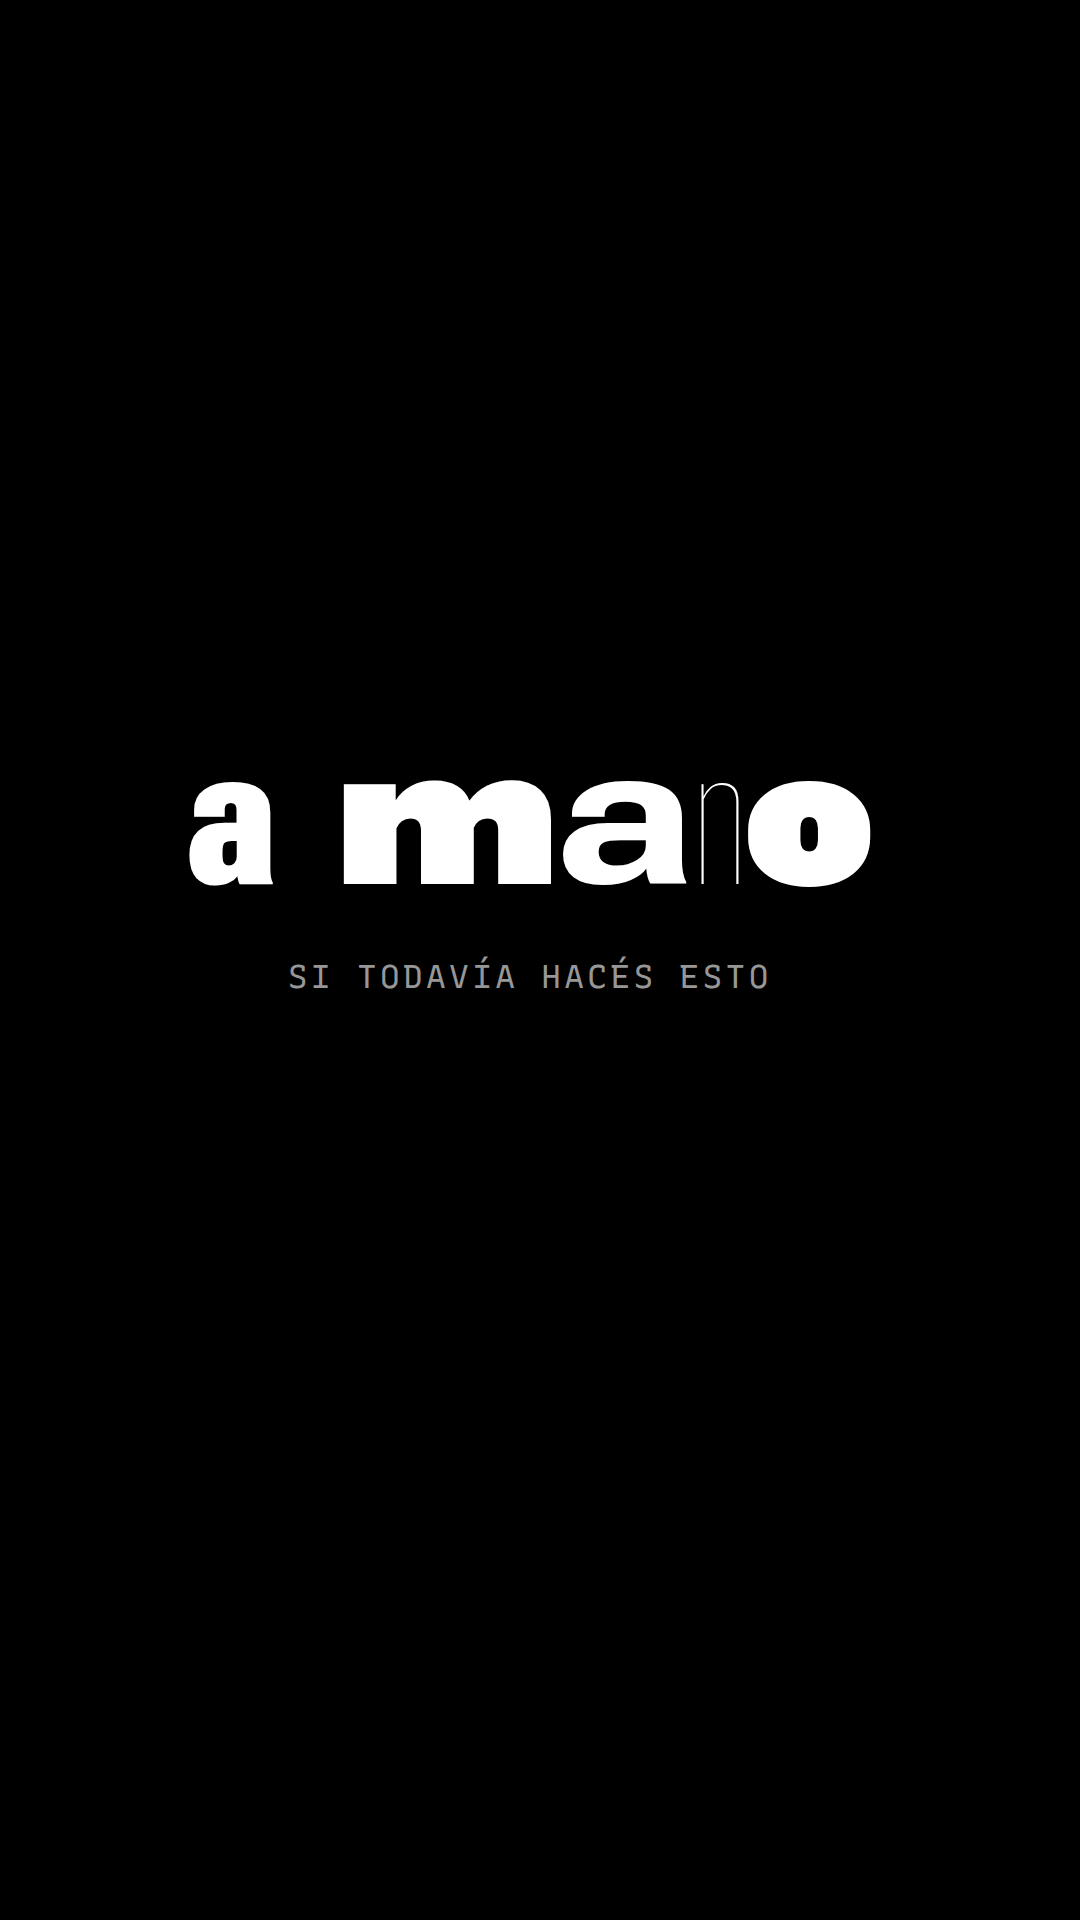
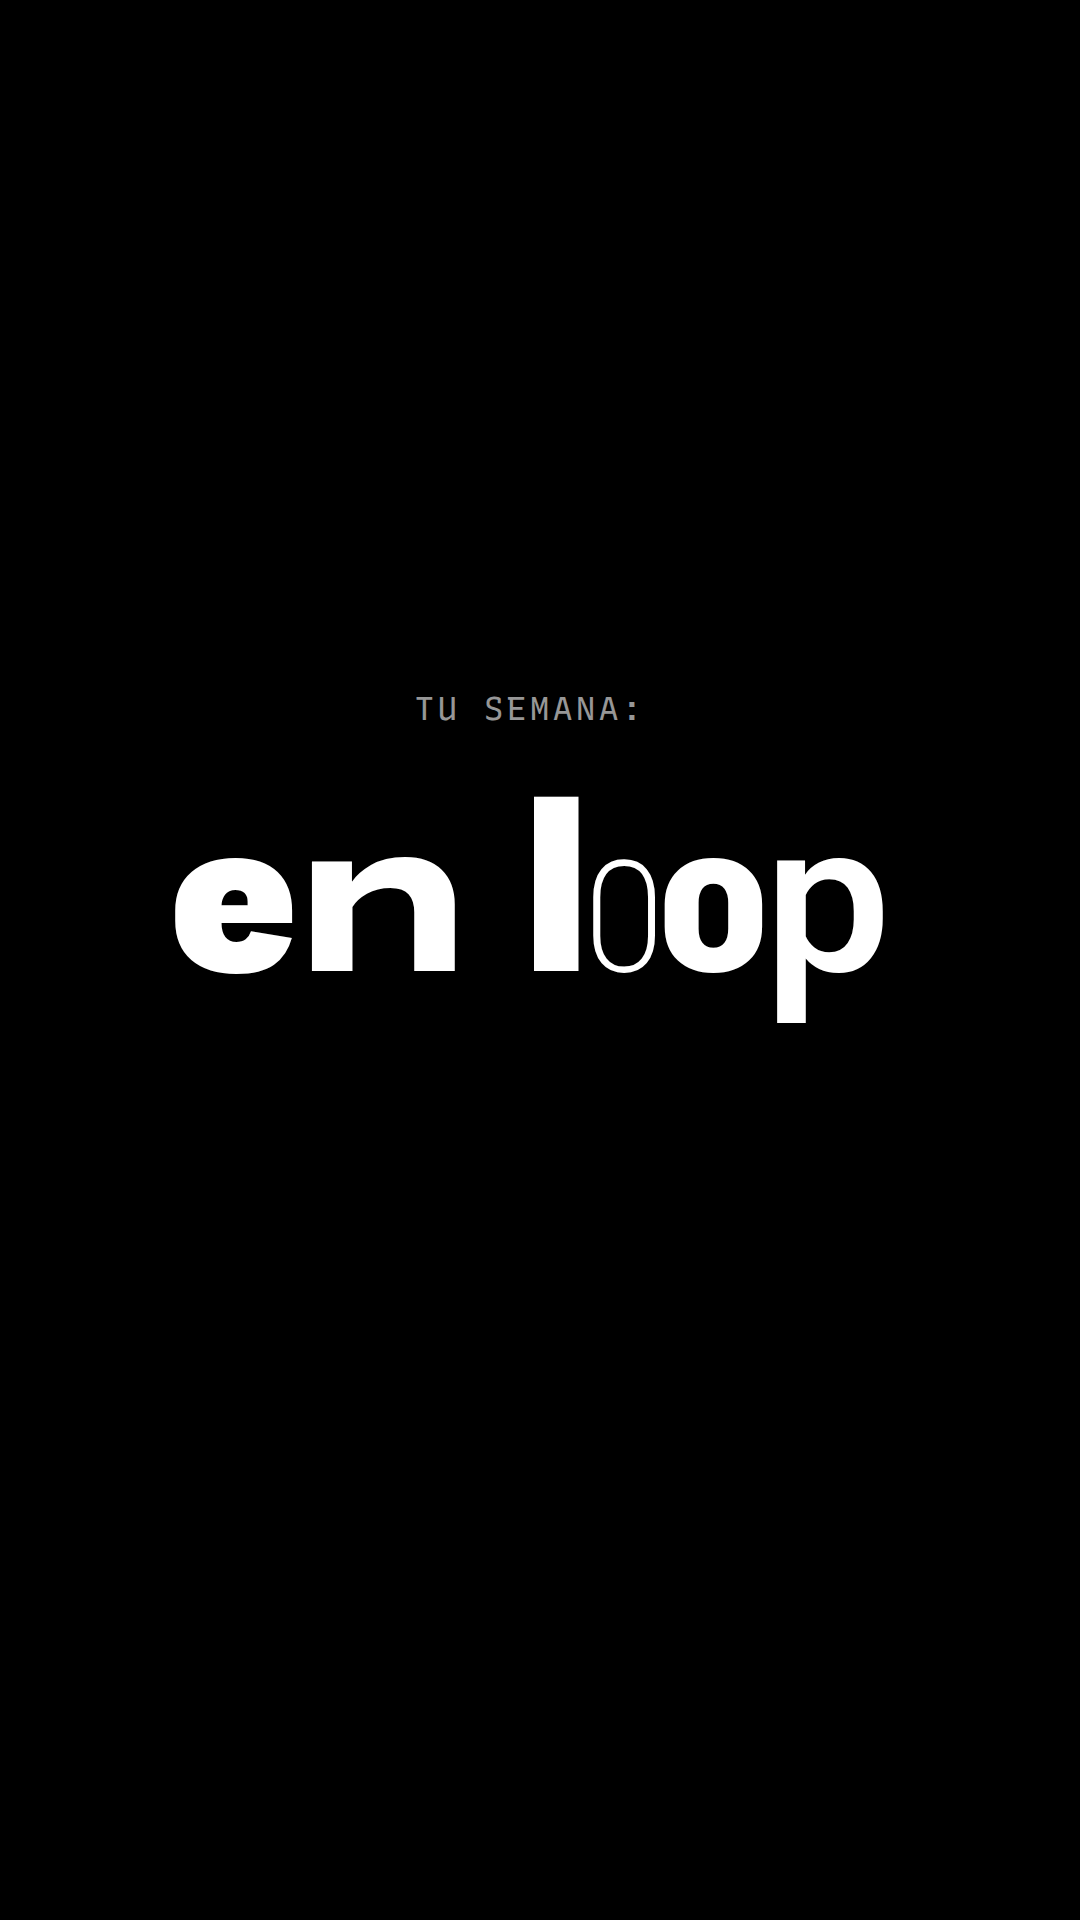
.

Changed region(s): [[0.1528, 0.4062, 0.825, 0.5312], [0.4583, 0.3438, 0.5806, 0.375], [0.3972, 0.3438, 0.4278, 0.375]]

diff --git a/instagram/reels/reels.js b/instagram/reels/reels.js
@@ -1,5 +1,5 @@
-// Reels para @l20n.archive y TikTok (en exploración). 1080×1920, 30 fps, sin audio:
-// el audio se elige en la app (los sonidos en tendencia ayudan al alcance).
+// Reels para @l20n.archive y TikTok (en exploración). 1080×1920, 30 fps.
+// music: { track, bar } → pista de musica/ (ver music.py) y compás en el que arranca.
 // El copy es BORRADOR: reescribilo a tu manera y volvé a renderizar.
 //
 // Escenas (dur en segundos):
@@ -12,6 +12,7 @@
 
 window.REELS = {
   '01-seguros-registro': {
+    music: { track: 'noche', bar: 4 },
     caption: 'Un productor de seguros no debería acordarse de cada vencimiento. Avisos y reportes que salen solos, todos los días. Escribime "avisos" por DM.',
     scenes: [
       { type: 'word', t: '08:00', label: 'mientras dormías', dur: 2.4 },
@@ -32,9 +33,10 @@ window.REELS = {
   },
 
   '02-a-mano': {
-    caption: 'Si alguna de estas te come la semana, se puede automatizar. Escribime por DM y vemos cuál primero.',
+    music: { track: 'progresivo', bar: 8 },
+    caption: 'Copiar, pegar, perseguir, repetir. Si todavía hacés esto a mano, escribime por DM.',
     scenes: [
-      { type: 'word', t: 'a mano', label: 'si todavía hacés esto', dur: 2.4 },
+      { type: 'word', t: 'en loop', label: 'tu semana:', above: true, dur: 2.4 },
       {
         type: 'list', dur: 7,
         items: [
@@ -51,6 +53,7 @@ window.REELS = {
   },
 
   '03-turnos-estetica': {
+    music: { track: 'brillante', bar: 4 },
     caption: 'Peluquerías, estética, masajes: turnos, señas y recordatorios que no dependen de que te acuerdes. Escribime "turnos" por DM.',
     scenes: [
       { type: 'word', t: 'turnos', label: 'peluquerías · estética · masajes', dur: 2.4 },
@@ -63,6 +66,7 @@ window.REELS = {
   },
 
   '04-consultas-inmobiliaria': {
+    music: { track: 'tenso', bar: 6 },
     caption: 'La consulta que se responde en tres horas ya se fue con otra inmobiliaria. Respuesta, visita y seguimiento sin perseguir a nadie. Escribime por DM.',
     scenes: [
       { type: 'word', t: 'consultas', label: 'inmobiliarias', dur: 2.4 },
@@ -75,6 +79,7 @@ window.REELS = {
   },
 
   '05-cuotas-desarrolladora': {
+    music: { track: 'tranqui', bar: 4 },
     caption: 'Cuotas, recibos y avance de obra sin planillas cruzadas ni mensajes uno por uno. Escribime "cuotas" por DM.',
     scenes: [
       { type: 'word', t: 'cuotas', label: 'desarrolladoras · constructoras', dur: 2.4 },

diff --git a/instagram/carruseles/historias.html b/instagram/carruseles/historias.html
@@ -47,7 +47,7 @@
   .mock .bar{border-top:1px solid rgba(255,255,255,.35);padding:24px 26px;display:flex;justify-content:space-between;color:#fff;font-size:20px}
   /* cierre: flecha a la caja de respuesta */
   .cta{display:flex;flex-direction:column;align-items:center;gap:18px;color:#fff;font-size:26px}
-  .cta .arrow{font-family:'Roboto Flex';font-size:120px;line-height:.8;font-variation-settings:"wght" 200,"wdth" 100,"opsz" 144}
+  .cta .arrow{font-family:'Roboto Flex';font-size:120px;line-height:.8;font-variation-settings:"wght" 260,"wdth" 100,"opsz" 144}
 </style></head>
 <body>
 <script src="historias.js"></script>
@@ -61,7 +61,7 @@ function letters(word,seed,thinW){
   const L=[...word], d=data(seed,L.length*2), first=d.slice(0,L.length);
   const thin=first.indexOf(Math.min(...first.filter((_,i)=>L[i]!==' ')));
   return L.map((ch,i)=>{const s=document.createElement('span');s.textContent=ch===' '?'\u00a0':ch;
-    const w=i===thin?thinW:500+d[i]*500, wd=40+d[i+L.length]*111;
+    const w=i===thin?thinW:500+d[i]*320, wd=40+d[i+L.length]*111;
     s.style.fontVariationSettings=`"wght" ${Math.round(w)}, "wdth" ${Math.round(wd)}, "opsz" 144`;return s;});
 }
 const el=(tag,cls,html)=>{const e=document.createElement(tag);if(cls)e.className=cls;if(html!=null)e.innerHTML=html;return e;};
@@ -76,8 +76,8 @@ H.slides.forEach((s,idx)=>{
   if(s.type==='tapa'){
     // Dos trazos de la misma letra: uno fino y uno que pesa, encimados apenas corridos.
     const g=el('div','g');const a=el('span',null,s.g),b=el('span',null,s.g);
-    a.style.fontVariationSettings='"wght" 900, "wdth" 60, "opsz" 144';
-    b.style.cssText='font-variation-settings:"wght" 320, "wdth" 151, "opsz" 144;margin-left:-.02em';
+    a.style.fontVariationSettings='"wght" 820, "wdth" 60, "opsz" 144';
+    b.style.cssText='font-variation-settings:"wght" 340, "wdth" 151, "opsz" 144;margin-left:-.02em';
     g.append(a,b);post.append(g);document.body.append(post);return;
   }
   // Sin título fijo ni handle: arriba solo la bajada de la intro, si tiene.

diff --git a/index.html b/index.html
@@ -69,10 +69,10 @@
         transform: translateY(0.35em);
         transition: font-variation-settings 0.5s cubic-bezier(0.16, 1, 0.3, 1);
       }
-      .ll-mark span:nth-child(1) { --w: 1000; --d: 101; --i: 0; }
-      .ll-mark span:nth-child(2) { --w: 1000; --d: 101; --i: 1; }
-      .ll-mark span:nth-child(3) { --w: 1000; --d: 125; --i: 2; }
-      .ll-mark span:nth-child(4) { --w: 950;  --d: 101; --i: 3; }
+      .ll-mark span:nth-child(1) { --w: 820; --d: 101; --i: 0; }
+      .ll-mark span:nth-child(2) { --w: 820; --d: 101; --i: 1; }
+      .ll-mark span:nth-child(3) { --w: 820; --d: 125; --i: 2; }
+      .ll-mark span:nth-child(4) { --w: 780;  --d: 101; --i: 3; }
       /* Entra cuando la fuente está lista: nunca se ve la de reemplazo */
       html.ll-font .ll-mark span {
         animation:
@@ -81,17 +81,17 @@
       }
       /* Al terminar queda la firma madre: el 0 fino */
       #l20n-loader.is-settled .ll-mark span { animation: none; opacity: 1; transform: none; }
-      #l20n-loader.is-settled .ll-mark span:nth-child(3) { --w: 140; }
+      #l20n-loader.is-settled .ll-mark span:nth-child(3) { --w: 260; }
       @keyframes ll-rise { to { opacity: 1; transform: none; } }
       @keyframes ll-thin {
         0%, 40%, 100% { font-variation-settings: "wght" var(--w), "wdth" var(--d), "opsz" 144; }
-        14% { font-variation-settings: "wght" 140, "wdth" calc(var(--d) + 24), "opsz" 144; }
+        14% { font-variation-settings: "wght" 260, "wdth" calc(var(--d) + 24), "opsz" 144; }
       }
       @keyframes ll-failsafe { to { visibility: hidden; } }
       @media (prefers-reduced-motion: reduce) {
         #l20n-loader, .ll-mark { transition-duration: 0.01s; }
         html.ll-font .ll-mark span { animation: none; opacity: 1; transform: none; }
-        .ll-mark span:nth-child(3) { --w: 140; }
+        .ll-mark span:nth-child(3) { --w: 260; }
       }
     </style>
     <noscript><style>#l20n-loader { display: none; } html.is-loading { overflow: auto; }</style></noscript>

diff --git a/instagram/portadas/portada.html b/instagram/portadas/portada.html
@@ -32,14 +32,14 @@ function letters(word,seed,thinW){
   const L=[...word], d=data(seed,L.length*2), first=d.slice(0,L.length);
   const thin=first.indexOf(Math.min(...first.filter((_,i)=>L[i]!==' ')));
   return L.map((ch,i)=>{const s=document.createElement('span');s.textContent=ch===' '?' ':ch;
-    const w=i===thin?thinW:500+d[i]*500, wd=40+d[i+L.length]*111;
+    const w=i===thin?thinW:500+d[i]*320, wd=40+d[i+L.length]*111;
     s.style.fontVariationSettings=`"wght" ${Math.round(w)}, "wdth" ${Math.round(wd)}, "opsz" 144`;return s;});
 }
 const q=new URLSearchParams(location.search), word=q.get('t')||'intro', seed=q.get('s')||word;
 document.getElementById('num').textContent=q.get('n')||'#001';
 document.getElementById('foot').textContent=q.get('f')||'';
-letters('L20N',seed,180).forEach(s=>document.getElementById('sig').append(s));
-const t=document.getElementById('title');letters(word,seed,120).forEach(s=>t.append(s));
+letters('L20N',seed,300).forEach(s=>document.getElementById('sig').append(s));
+const t=document.getElementById('title');letters(word,seed,260).forEach(s=>t.append(s));
 document.fonts.ready.then(()=>{t.style.fontSize='100px';const k=(1080-128)/t.getBoundingClientRect().width;
   const fs=Math.min(100*k,640);t.style.fontSize=fs+'px';if(/[gjpqy]/.test(word))t.parentNode.style.marginBottom=(fs*.2)+'px';document.title='ready';});
 </script></body></html>

diff --git a/instagram/carruseles/carrusel.html b/instagram/carruseles/carrusel.html
@@ -72,12 +72,12 @@ function data(seed,n){const r=prng(hash(String(seed)));return Array.from({length
 // Misma regla que la firma y la portada: una letra fina (la de dato más bajo), el resto pesa y se ensancha según el dato.
 // fixedW: [ancho de la fina, ancho de las que pesan], fijo (en los números, para que se lean como uno solo).
 // Peso de la letra fina: más bajo que esto ya no se lee.
-const THIN=320;
+const THIN=340;
 function letters(word,seed,thinW,fixedW,thinAt){
   const L=[...word], d=data(seed,L.length*2), first=d.slice(0,L.length);
   const thin=thinAt??first.indexOf(Math.min(...first.filter((_,i)=>L[i]!==' ')));
   return L.map((ch,i)=>{const s=document.createElement('span');s.textContent=ch===' '?' ':ch;
-    const w=i===thin?thinW:500+d[i]*500, wd=fixedW?fixedW[i===thin?0:1]:40+d[i+L.length]*111;
+    const w=i===thin?thinW:500+d[i]*320, wd=fixedW?fixedW[i===thin?0:1]:40+d[i+L.length]*111;
     s.style.fontVariationSettings=`"wght" ${Math.round(w)}, "wdth" ${Math.round(wd)}, "opsz" 144`;return s;});
 }
 // Portada: con la regla, o pareja (even) cuando el proyecto es de un cliente y el nombre se respeta tal cual.

diff --git a/src/components/Signature/signature.js b/src/components/Signature/signature.js
@@ -28,13 +28,20 @@ export function dataFromSeed(seed) {
   return Array.from({ length: 8 }, () => rand());
 }
 
+// Rango de pesos de la marca: la fina no llega a hilo y las que pesan no llegan a negrísima.
+export const THIN = 260;
+export const THIN_SMALL = 340;
+export const HEAVY_MIN = 500;
+export const HEAVY_MAX = 820;
+export const heavy = d => HEAVY_MIN + d * (HEAVY_MAX - HEAVY_MIN);
+
 // Las firmas chicas usan una línea fina más gruesa para que no desaparezca.
-export function signatureLetters(data, { shared = false, thinWeight = 140 } = {}) {
+export function signatureLetters(data, { shared = false, thinWeight = THIN } = {}) {
   const first = data.slice(0, 4);
   const thinIndex = first.indexOf(Math.min(...first));
   return [...'L20N'].map((letter, i) => {
     const thin = shared || i === thinIndex;
-    const wght = thin ? thinWeight : 500 + data[i] * 500;
+    const wght = thin ? thinWeight : heavy(data[i]);
     const wdth = 40 + data[(i + 4) % 8] * 111;
     return {
       letter,

diff --git a/instagram/reels/reel.html b/instagram/reels/reel.html
@@ -51,10 +51,10 @@ function word(text,maxW,maxSize){
   const spans=L.map((ch,i)=>{const s=el('span');s.textContent=ch===' '?' ':ch;line.append(s);return s;});
   const wd=i=>Math.round(40+A[i+L.length]*111);
   const set=k=>spans.forEach((s,i)=>{
-    const w=i===thin?140:(500+A[i]*500)*(1-k)+(500+B[i]*500)*k;
+    const w=i===thin?260:(500+A[i]*320)*(1-k)+(500+B[i]*320)*k;
     s.style.fontVariationSettings=`"wght" ${Math.round(w)}, "wdth" ${wd(i)}, "opsz" 144`;});
   return {el:box,
-    fit(){spans.forEach((s,i)=>{if(i!==thin)s.style.fontVariationSettings=`"wght" 1000, "wdth" ${wd(i)}, "opsz" 144`;});
+    fit(){spans.forEach((s,i)=>{if(i!==thin)s.style.fontVariationSettings=`"wght" 820, "wdth" ${wd(i)}, "opsz" 144`;});
       box.style.fontSize='100px';const w=line.getBoundingClientRect().width;
       const fs=Math.min(100*maxW/w,maxSize);box.style.fontSize=fs+'px';
       if(/[gjpqy]/.test(text))box.style.marginBottom=(fs*.2)+'px';},

diff --git a/src/components/Intro/Intro.jsx b/src/components/Intro/Intro.jsx
@@ -2,13 +2,13 @@ import { useEffect, useLayoutEffect, useRef } from 'react';
 import { useTranslation } from 'react-i18next';
 import { useScroll, useMotionValueEvent, useReducedMotion } from 'framer-motion';
 import { MOTHER } from '../../data/pieces';
+import { THIN, HEAVY_MAX, heavy } from '../Signature/signature';
 import { setLanded } from '../../lib/landing';
 import styles from './Intro.module.css';
 
 const LETTERS = [...'L20N'];
-const BASE_WGHT = [1000, 1000, 1000, 500 + MOTHER[3] * 500];
+const BASE_WGHT = [HEAVY_MAX, HEAVY_MAX, HEAVY_MAX, heavy(MOTHER[3])];
 const BASE_WDTH = [4, 5, 6, 7].map(i => 40 + MOTHER[i] * 111);
-const THIN = 140;
 
 const clamp = (v, a = 0, b = 1) => Math.min(b, Math.max(a, v));
 const smooth = v => v * v * (3 - 2 * v);

diff --git a/src/pages/ToolsPage.module.css b/src/pages/ToolsPage.module.css
@@ -26,7 +26,7 @@
 .title {
   font-family: var(--font-display);
   font-size: clamp(4rem, 14vw, 12rem);
-  font-weight: 900;
+  font-weight: var(--weight-heavy);
   font-stretch: 130%;
   line-height: 0.8;
   letter-spacing: -0.03em;
@@ -66,7 +66,7 @@
 .number {
   font-family: var(--font-display);
   font-size: clamp(4rem, 9vw, 8.5rem);
-  font-weight: 100;
+  font-weight: var(--weight-thin);
   font-stretch: 60%;
   line-height: 0.8;
   color: var(--color-text-faint);
@@ -90,7 +90,7 @@
 .name {
   font-family: var(--font-display);
   font-size: clamp(var(--text-4xl), 5vw, var(--text-6xl));
-  font-weight: 900;
+  font-weight: var(--weight-heavy);
   font-stretch: 125%;
   line-height: 0.9;
   letter-spacing: -0.02em;

diff --git a/src/components/Signature/Signature.jsx b/src/components/Signature/Signature.jsx
@@ -1,8 +1,8 @@
-import { dataFromSeed, signatureLetters } from './signature';
+import { THIN, THIN_SMALL, dataFromSeed, signatureLetters } from './signature';
 import styles from './Signature.module.css';
 
 export default function Signature({ seed, data, shared = false, small = false, className = '', as: Tag = 'span' }) {
-  const letters = signatureLetters(data ?? dataFromSeed(seed), { shared, thinWeight: small ? 300 : 140 });
+  const letters = signatureLetters(data ?? dataFromSeed(seed), { shared, thinWeight: small ? THIN_SMALL : THIN });
   return (
     <Tag className={`${styles.signature} ${className}`} aria-label="L20N" role="img">
       {letters.map(({ letter, style }, i) => (

diff --git a/src/components/Archive/Archive.module.css b/src/components/Archive/Archive.module.css
@@ -19,7 +19,7 @@
 .title {
   font-family: var(--font-display);
   font-size: clamp(2.5rem, 7vw, 6rem);
-  font-weight: 900;
+  font-weight: var(--weight-heavy);
   font-stretch: 125%;
   line-height: 0.85;
   letter-spacing: -0.02em;
@@ -120,7 +120,7 @@ div.frame {
 .number {
   font-family: var(--font-display);
   font-size: clamp(4rem, 9vw, 8.5rem);
-  font-weight: 100;
+  font-weight: var(--weight-thin);
   font-stretch: 60%;
   line-height: 0.8;
   color: var(--color-text-faint);

diff --git a/src/components/Contact/Contact.jsx b/src/components/Contact/Contact.jsx
@@ -58,7 +58,7 @@ function WideWord({ text }) {
       const r = el.getBoundingClientRect();
       const d = Math.abs(e.clientX - (r.left + r.width / 2)) / window.innerWidth;
       const k = Math.max(0, 1 - d * 4);
-      el.style.fontVariationSettings = `"wght" ${Math.round(300 + 700 * k)}, "wdth" ${Math.round(40 + 111 * k)}, "opsz" 144`;
+      el.style.fontVariationSettings = `"wght" ${Math.round(340 + 480 * k)}, "wdth" ${Math.round(40 + 111 * k)}, "opsz" 144`;
     });
   }
 
